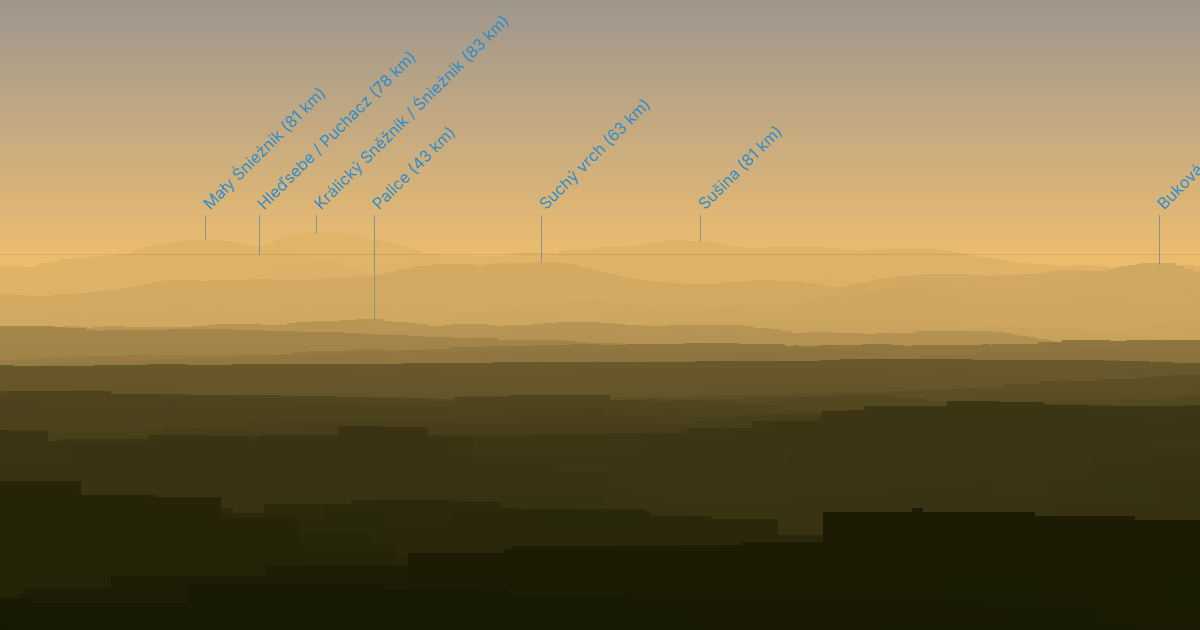
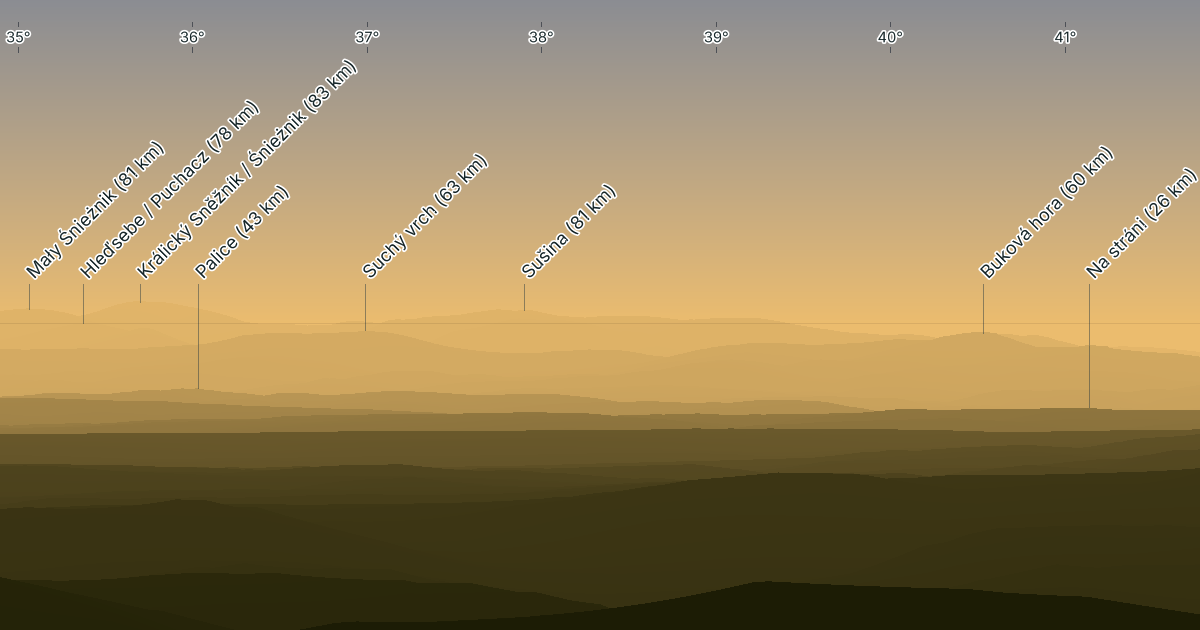
native: SDF halo outlines, web-matching label ink, -fs font size
The atlas is already a distance field, so the halo is the same single
pass: coverage of the glyph dilated by outlinePx, blended underneath
the fill; width clamps to what the atlas spread can represent. Labels
and ruler drop solarized blue for the web overlay scheme: near-black
ink, white halo, translucent stems drawn before all texts (a stem
crossing a label vanishes under its halo), border-gray ticks.

-fs/--font-size scales labels, ticks and halo together (for prints).

OG card rerendered by Pavel: -b bilinear terrain, -fs 18, crop keeps
the azimuth ruler, zopflipng. Parity: hash b175c596, 0 px diff.

diff --git a/web/index.html b/web/index.html
@@ -10,8 +10,10 @@
 <title>Obzor</title>
 <!-- Link-preview card (WhatsApp/Signal/Mastodon/Facebook unfurls). The image
      is a real render: Kamenice lookout toward the Sněžník group at sunset,
-     cropped to 1200x630 (og-image.png, regenerate via build/panorama -l with
-     the -2° palette row). Spec wants an absolute og:image URL — prepend the
+     cropped to 1200x630 (og-image.png; regenerate: build/panorama -l -b
+     -fs 18 with the -2° palette row, crop 1200x630 at x=6091 y=16 —
+     keeps the azimuth ruler in frame — then zopflipng).
+     Spec wants an absolute og:image URL — prepend the
      public host if some service refuses the relative one. Crawlers only;
      deliberately not in the SW precache. -->
 <meta name="description" content="See which mountains are on your horizon — named summits with distances, from any viewpoint, at any time of day.">

diff --git a/src/annotate.cpp b/src/annotate.cpp
@@ -14,42 +14,51 @@ namespace pano {
 
 namespace {
 
-// Solarized-ish palette used by the Julia version.
-constexpr uint8_t kLineColor[3] = {131, 148, 150};
-constexpr uint8_t kTextColor[3] = {38, 139, 210};
-
-constexpr double kLabelSizePx = 16.0; // matches the web app's label font size
-constexpr double kTickSizePx = 13.0;
+// Matches the web overlay: near-black ink under a white halo (readable over
+// any sky palette), stems as a translucent darkening rather than a wire.
+constexpr uint8_t kTextColor[3] = {21, 37, 40};    // --bg / --ink on the web
+constexpr uint8_t kHaloColor[3] = {255, 255, 255};
+constexpr uint8_t kStemColor[3] = {30, 50, 60};    // blended at kStemAlpha
+constexpr double kStemAlpha = 0.45;
+constexpr uint8_t kTickColor[3] = {78, 81, 87};    // --border
 
 } // namespace
 
 void drawAnnotations(const View &view, uint8_t *rgb,
                      const std::vector<VisibleSummit> &summits,
-                     const SdfFont &font)
+                     const SdfFont &font, double labelSizePx)
 {
+    const double tickSizePx = labelSizePx * 13.0 / 16.0;
+    const double haloPx = labelSizePx * 1.5 / 16.0; // scales with the text
     const int width = view.outWidth;
     const int height = view.outHeight;
     uint8_t *img = rgb;
 
-    const auto setPixel = [&](int x, int y, const uint8_t color[3]) {
+    const auto blendPixel = [&](int x, int y, const uint8_t color[3], double a) {
         uint8_t *px = &img[(size_t(y) * width + x) * 3];
-        px[0] = color[0], px[1] = color[1], px[2] = color[2];
+        for (int ch = 0; ch < 3; ++ch)
+            px[ch] = uint8_t(px[ch] + (color[ch] - px[ch]) * a + 0.5);
     };
-    const auto vLine = [&](int x, int y0, int y1, const uint8_t color[3]) {
+    const auto vLine = [&](int x, int y0, int y1, const uint8_t color[3],
+                           double a = 1.0) {
         if (x < 0 || x >= width)
             return;
         for (int y = std::max(y0, 0); y <= std::min(y1, height - 1); ++y)
-            setPixel(x, y, color);
+            blendPixel(x, y, color, a);
     };
 
     constexpr double kLabelBaseY = 300.0; // labels start above this line, like pano.jl
 
-    for (const VisibleSummit &summit : summits) {
+    // stems first, all texts after — a stem crossing a neighbor's label run
+    // vanishes under its halo instead of striking it out (same as the web)
+    for (const VisibleSummit &summit : summits)
         vLine(summit.x, std::min(summit.y, int(kLabelBaseY)),
-              std::max(summit.y, int(kLabelBaseY)), kLineColor);
+              std::max(summit.y, int(kLabelBaseY)), kStemColor, kStemAlpha);
+    for (const VisibleSummit &summit : summits) {
         const std::string label = std::format("{} ({:.0f} km)", summit.name, summit.distanceM / 1000.0);
         font.drawText(img, width, height, 3, label,
-                      double(summit.x) + 5.0, kLabelBaseY - 5.0, kLabelSizePx, 45.0, kTextColor);
+                      double(summit.x) + 5.0, kLabelBaseY - 5.0, labelSizePx, 45.0,
+                      kTextColor, kHaloColor, haloPx);
     }
 
     // Azimuth ticks and degree labels.
@@ -57,12 +66,12 @@ void drawAnnotations(const View &view, uint8_t *rgb,
     const int azMaxD = int(std::floor(toDegrees(view.azimuthMaxR)));
     for (int az = azMinD; az <= azMaxD; ++az) {
         const int x = int(std::lround((toRadians(double(az)) - view.azimuthMinR) / view.angularStepR));
-        vLine(x, 38, 42, kLineColor);
-        vLine(x, 63, 68, kLineColor);
+        vLine(x, 38, 42, kTickColor);
+        vLine(x, 63, 68, kTickColor);
         const std::string label = std::format("{}°", az >= 0 ? az : az + 360);
         font.drawText(img, width, height, 3, label,
-                      x - font.textWidth(label, kTickSizePx) / 2.0, 58.0,
-                      kTickSizePx, 0.0, kTextColor);
+                      x - font.textWidth(label, tickSizePx) / 2.0, 58.0,
+                      tickSizePx, 0.0, kTextColor, kHaloColor, haloPx);
     }
 
     // Horizon line (elevation angle 0): darken the underlying pixels slightly

diff --git a/src/sdftext.cpp b/src/sdftext.cpp
@@ -100,10 +100,15 @@ double SdfFont::textWidth(std::string_view utf8, double sizePx) const
 
 void SdfFont::drawText(uint8_t *image, int imgWidth, int imgHeight, int channels,
                        std::string_view utf8, double x, double y,
-                       double sizePx, double angleDeg, const uint8_t *color) const
+                       double sizePx, double angleDeg, const uint8_t *color,
+                       const uint8_t *outlineColor, double outlinePx) const
 {
     constexpr double kAaWidthPx = 1.0; // coverage ramp width on screen
     const double s = sizePx / m_emPx;
+    // The atlas only stores distances up to spreadPx from the edge; a wider
+    // outline would clip to a square at the glyph padding boundary.
+    if (outlineColor)
+        outlinePx = std::min(outlinePx, m_spreadPx * s - kAaWidthPx);
     const double a = toRadians(angleDeg);
     // baseline / "down" direction in screen coords (y down, angle CCW)
     const double dirX = std::cos(a), dirY = -std::sin(a);
@@ -149,9 +154,19 @@ void SdfFont::drawText(uint8_t *image, int imgWidth, int imgHeight, int channels
                     row[m_atlasW] * (1 - fu) * fv + row[m_atlasW + 1] * fu * fv;
                 const double distScreen = (value - 128.0) * (m_spreadPx / 127.0) * s;
                 const double alpha = std::clamp(distScreen / kAaWidthPx + 0.5, 0.0, 1.0);
-                if (alpha <= 0.0)
-                    continue;
                 uint8_t *pixel = &image[(size_t(py) * imgWidth + px) * channels];
+                if (outlineColor) {
+                    // coverage of the glyph dilated by outlinePx: halo under
+                    // the fill, so the band outside the edge survives
+                    const double haloAlpha = std::clamp(
+                        (distScreen + outlinePx) / kAaWidthPx + 0.5, 0.0, 1.0);
+                    if (haloAlpha <= 0.0)
+                        continue;
+                    for (int ch = 0; ch < channels; ++ch)
+                        pixel[ch] = uint8_t(pixel[ch] + (outlineColor[ch] - pixel[ch]) * haloAlpha + 0.5);
+                } else if (alpha <= 0.0) {
+                    continue;
+                }
                 for (int ch = 0; ch < channels; ++ch)
                     pixel[ch] = uint8_t(pixel[ch] + (color[ch] - pixel[ch]) * alpha + 0.5);
             }

diff --git a/src/main.cpp b/src/main.cpp
@@ -35,6 +35,7 @@ struct Options {
     Rgb8 terrain{50, 65, 0};            // near-terrain color (parity-reference palette;
     Rgb8 sky{149, 195, 233};            // the web app defaults to its sky-palette +30° row)
     std::optional<Rgb8> horizon;        // horizon airlight override (time-of-day)
+    double fontSize = 16.0;             // label size, px (ticks + halo scale along)
 };
 
 // "RRGGBB" or "#RRGGBB" -> Rgb8; exits with a message on malformed input.
@@ -63,6 +64,8 @@ Rgb8 parseHexColor(std::string_view s)
                  "  -bg, --background-color  photo sky color, hex RRGGBB (default 95c3e9)\n"
                  "  -hz, --horizon-color     photo horizon airlight override, hex RRGGBB\n"
                  "                           (default: sky pushed 85%% toward white)\n"
+                 "  -fs, --font-size         label size in px (default 16; azimuth ticks\n"
+                 "                           and halo width scale along — prints)\n"
                  "Scene (viewpoint, azimuth window, distance) is hardcoded in src/main.cpp.");
     std::exit(1);
 }
@@ -89,6 +92,13 @@ Options parseOptions(int argc, char **argv)
             opt.sky = parseHexColor(value());
         else if (arg == "-hz" || arg == "--horizon-color")
             opt.horizon = parseHexColor(value());
+        else if (arg == "-fs" || arg == "--font-size") {
+            opt.fontSize = std::atof(std::string(value()).c_str());
+            if (opt.fontSize <= 0.0) {
+                std::println(stderr, "Bad font size");
+                std::exit(1);
+            }
+        }
         else if (arg.starts_with('-'))
             usage();
         else
@@ -167,7 +177,7 @@ int main(int argc, char **argv)
         for (size_t i = 0; i < view.arraySize(); ++i)
             std::copy_n(&rgba[i * 4], 3, &rgb[i * 3]);
         if (opt.label)
-            drawAnnotations(view, rgb.data(), visible, font);
+            drawAnnotations(view, rgb.data(), visible, font, opt.fontSize);
         writePng("panorama_photo.png", view.outWidth, view.outHeight, 3, 8, rgb.data());
     } catch (const std::exception &e) {
         std::println(stderr, "Error: {}", e.what());

diff --git a/src/sdftext.hpp b/src/sdftext.hpp
@@ -27,9 +27,14 @@ public:
     // (ClearType-like) coverage is deliberately absent: labels get scaled
     // (web zoom) and printed, where RGB fringes turn into color noise —
     // revisit as an opt-in for the desktop app at final resolution.
+    // outlineColor (optional) draws an outlinePx-wide halo band just outside
+    // the glyph edge — one pass, the SDF already knows the distance; the
+    // width is silently clamped to what the atlas spread can represent.
     void drawText(uint8_t *image, int imgWidth, int imgHeight, int channels,
                   std::string_view utf8, double x, double y,
-                  double sizePx, double angleDeg, const uint8_t *color) const;
+                  double sizePx, double angleDeg, const uint8_t *color,
+                  const uint8_t *outlineColor = nullptr,
+                  double outlinePx = 0.0) const;
 
     double lineHeight(double sizePx) const { return m_lineHeight * sizePx / m_emPx; }
     double ascender(double sizePx) const { return m_ascender * sizePx / m_emPx; }

diff --git a/src/summits.hpp b/src/summits.hpp
@@ -55,7 +55,7 @@ class SdfFont;
 // the canvas.
 void drawAnnotations(const View &view, uint8_t *rgb,
                      const std::vector<VisibleSummit> &summits,
-                     const SdfFont &font);
+                     const SdfFont &font, double labelSizePx = 16.0);
 
 // Grayscale-outline convenience wrapper: expands `outlines` to RGB, draws
 // the annotations and writes a PNG to `outputPath`.